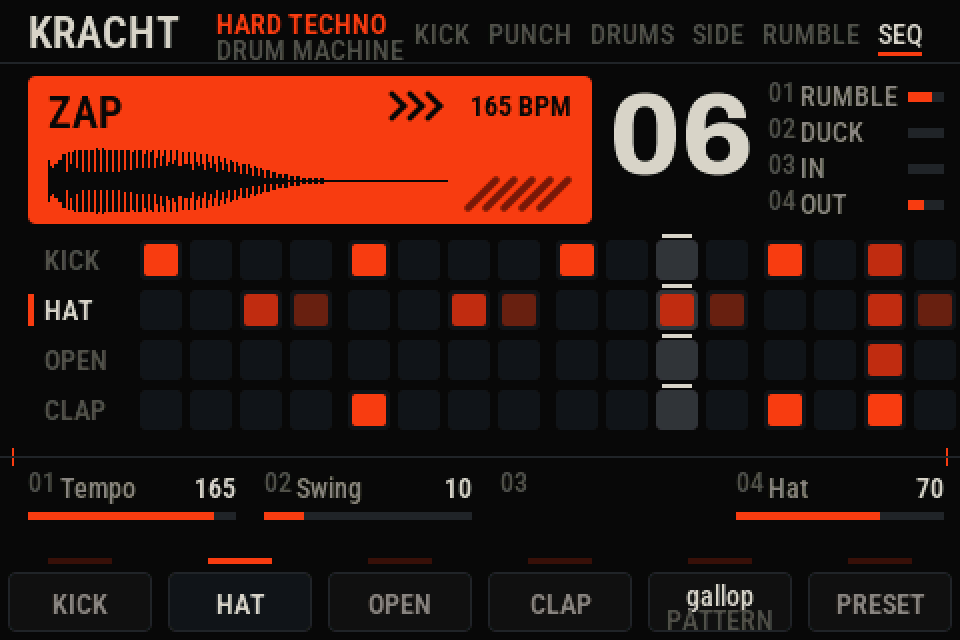
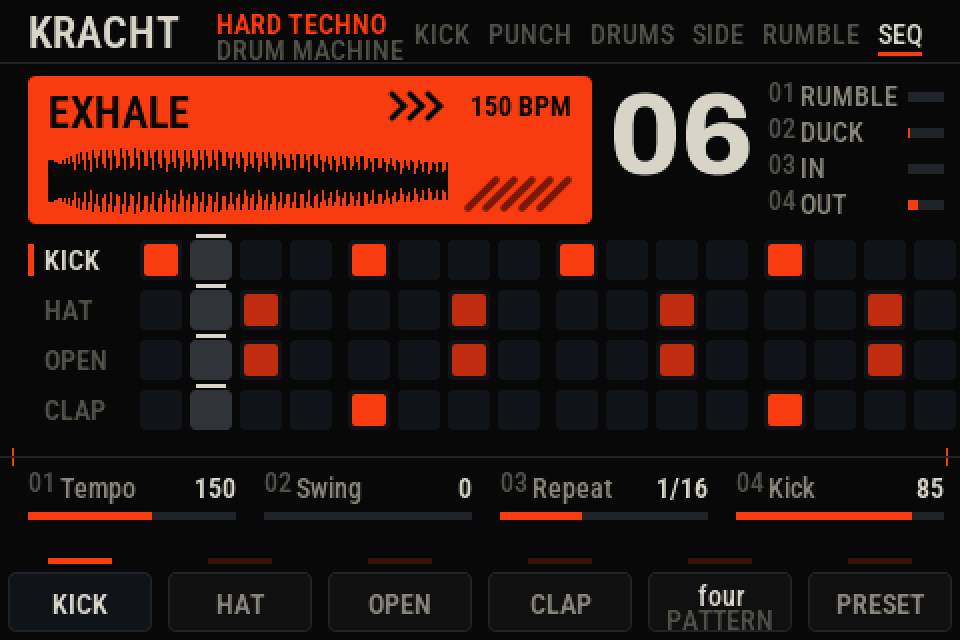
Docs for 0.5.0: cheat sheet, direct player link, FX take, SEQ screen
- Cheat sheet: SAVED (state.bin – values, preset, steps, mutes, scenes,
  MIDI settings) and MIDI in by PC / CC.
- README: "Play it in the browser" opens KRACHT straight in the player
  (play.thefirmwarehub.com/?fw=kracht-vibe).
- HOW-TO-PLAY: take 11, FX throws (delay, reverse, repeat 1/4, tape stop).
- docs/screens/06.png: the SEQ page with REPEAT.

diff --git a/cheatsheet.html b/cheatsheet.html
@@ -37,7 +37,7 @@ and the kick ducking whatever you plug into IN 1+2. PLAY starts the default patt
   <tr><td><span class="k c">SIDE</span></td><td>INPUT (IN 1+2 into the mix) · SIDECHAIN (how deep the kick ducks it) · GLUE (master saturation) · VOLUME</td></tr>
   <tr><td><span class="k c">RUMBLE</span></td><td>RUMBLE (level) · R TONE (low-pass 70–290 Hz) · R DRIVE · DUCK (how hard the kick pushes the rumble away)</td></tr>
   <tr><td><span class="k c">SEQ</span></td><td>TEMPO (120–170) · SWING · REPEAT (note repeat rate) · encoder 4 = LEVEL of the selected lane · <span class="k">SHIFT</span>: QUANTIZE · STRENGTH · LENGTH of the lane (1–16, polymeter)</td></tr>
-  <tr><td><span class="k c">MIDI</span></td><td><b>K6 again</b>: MAP (KRACHT · GM · MPC · LEARN) · IN CH · OUT CH · OUT (off / notes / clock / both) · <span class="k">ENTER</span> learn the lane's note</td></tr>
+  <tr><td><span class="k c">MIDI</span></td><td><b>K6 again</b>: MAP (KRACHT · GM · MPC · LEARN) · IN CH · OUT CH · OUT (off / notes / clock / both) · <span class="k">ENTER</span> learn the lane's note · <span class="dim">in: PC 0–6 preset · CC 20–23 mute · CC 24–27 pattern</span></td></tr>
 </table>
 
 <h3>F keys</h3>
@@ -56,6 +56,7 @@ and the kick ducking whatever you plug into IN 1+2. PLAY starts the default patt
   <tr><td><span class="k">PLAY</span></td><td>Sequencer on / off · <b>STOP</b> stops. In a DAW it follows the host's transport and tempo</td></tr>
   <tr><td><span class="k">A · B</span></td><td>Encoder A = <b>VOLUME</b> · encoder B = <b>DUCK RELEASE</b> (in beats: how long the rumble and the input stay down)</td></tr>
   <tr><td><span class="k">HOME</span></td><td>What every control does right now · <span class="dim">held 1 s: the firmware library</span></td></tr>
+  <tr><td><span class="k">SAVED</span></td><td>By itself: every value, the preset, steps with overdubs, mutes, the six scenes, MIDI settings – 1.5 s after a change and with the DAW project. Next start: where you left off</td></tr>
 </table>
 
 <h3>Perform</h3>

diff --git a/README.md b/README.md
@@ -7,13 +7,14 @@ hats and clap on a 16-step sequencer, and the kick ducking whatever you plug int
 synthesised.
 
 **[Listen to the demos](https://sponde.de/kracht-vibe/)** · **[Download the latest release](https://github.com/Kracht/kracht-vibe/releases/latest)** ·
-**[VIBE FM player](https://play.thefirmwarehub.com/)**
+**[Play it in the browser](https://play.thefirmwarehub.com/?fw=kracht-vibe)**
 
 Made for the [VIBE Box Challenge 2026](https://thefirmwarehub.com/lab/) on The Firmware Hub.
 
 ## Play it
 
-- **In the browser:** open the [VIBE FM player](https://play.thefirmwarehub.com/) and drop `kracht.wasm` onto the device.
+- **In the browser:** [open KRACHT in the VIBE FM player](https://play.thefirmwarehub.com/?fw=kracht-vibe) – it loads
+  straight away. Or drop `kracht.wasm` onto the device in the [player](https://play.thefirmwarehub.com/).
 - **In the VIBE FM plugin:** drop `kracht.zip` onto the plugin window. In a DAW KRACHT follows the transport and tempo.
 
 Both files are in the [latest release](https://github.com/Kracht/kracht-vibe/releases/latest).

diff --git a/demos/live/HOW-TO-PLAY.md b/demos/live/HOW-TO-PLAY.md
@@ -60,3 +60,14 @@ Keys: **F1–F4** lane · **SHIFT + F1–F4** mute · **F5 / SHIFT + F5** next /
 - Bar 7: kick → double end, clap → double end
 
 The synth parts on IN 1 (pad, stabs, acid) are not KRACHT: they stand for whatever you plug in.
+
+## 11 · FX throws · KRACHT · 150 BPM (0.5.0)
+
+SHIFT + pad, each held as written and let go with SHIFT; the pad's velocity 0.8 (tape stop 0.2, soft).
+
+- Before PLAY: F6 ×1 (KRACHT). The default pattern, nothing else changed.
+- Bar 4, beat 4: SHIFT + pad 13 (DELAY) for one beat – the throw rings on into bar 5
+- Bar 6, beat 4: SHIFT + pad 8 (REVERSE) for one beat
+- Bar 8, beats 3–4: SHIFT + pad 3 (REPEAT 1/4)
+- Bar 10, beat 1: SHIFT + pad 5 (TAPE STOP), held – the take ends on the halt
+
